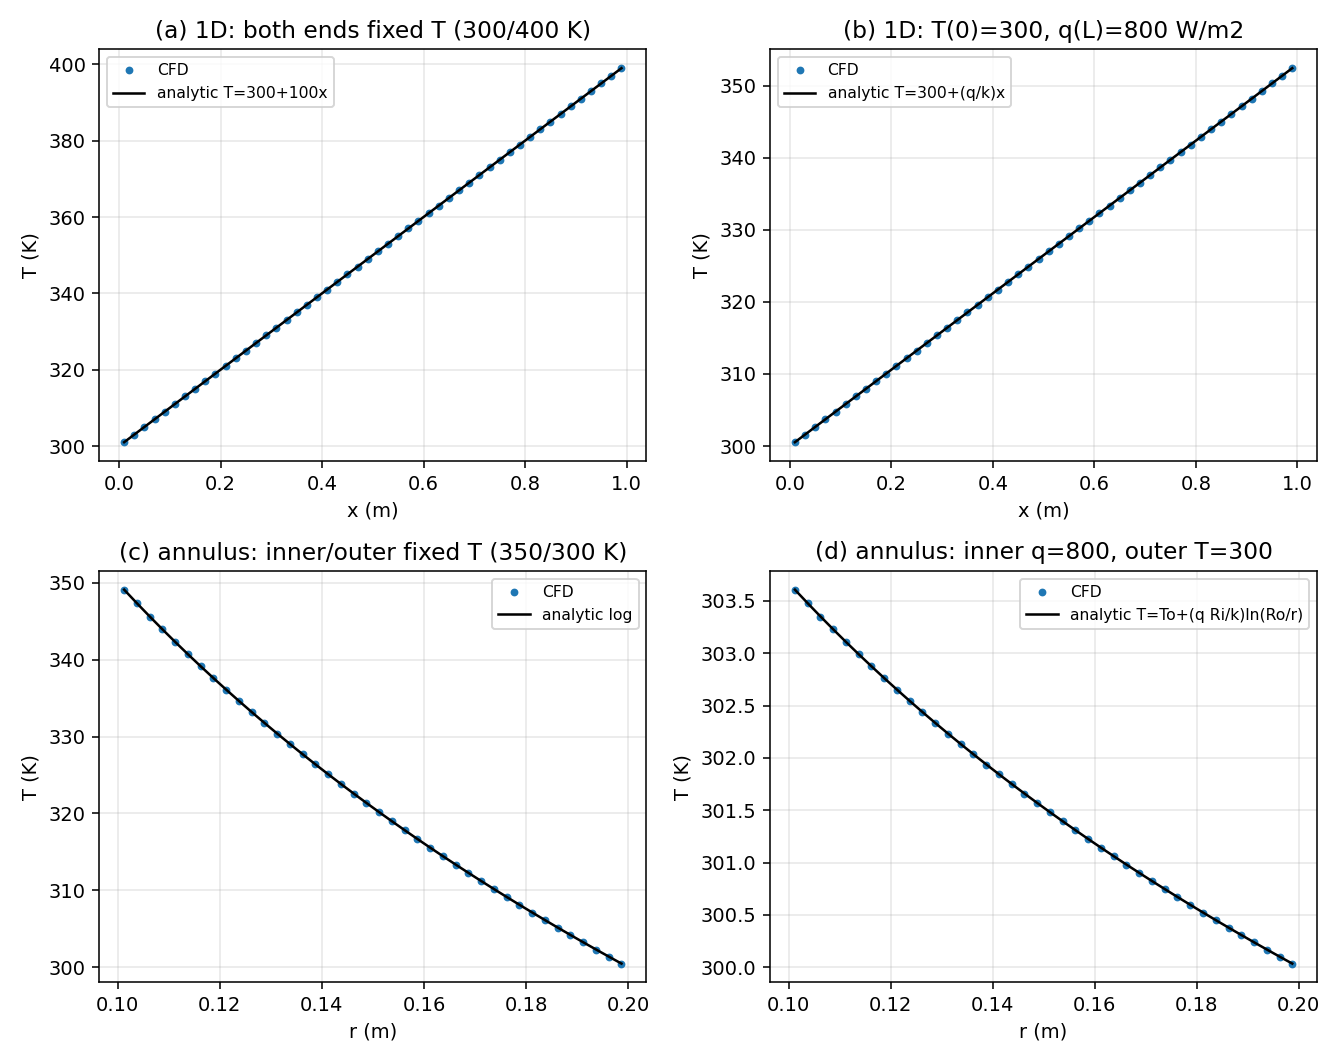
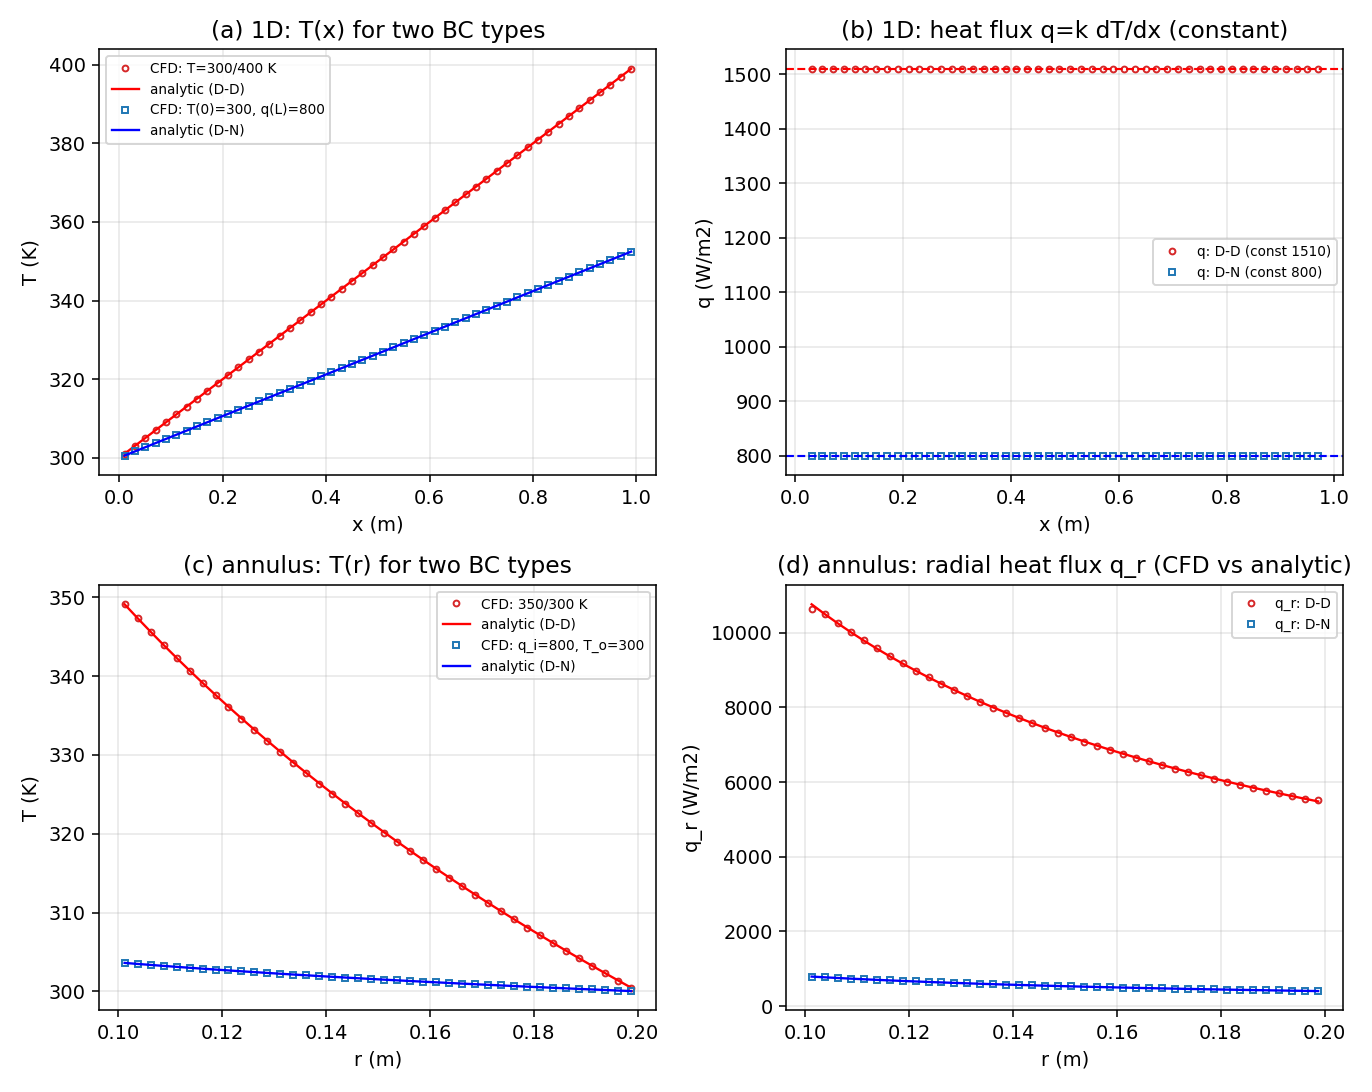
docs(summary): consolidate conduction figure (both BC types, T and q); drop duplicate 1D/annulus figures

diff --git a/docs/summary/make_cond_fig.py b/docs/summary/make_cond_fig.py
@@ -1,37 +1,53 @@
 #!/usr/bin/env python3
-import numpy as np, os
+import numpy as np
 import matplotlib; matplotlib.use('Agg')
 import matplotlib.pyplot as plt
 R='/home/sundong/Fortran_Project/OpenCFD-EC-1.16a'; F=R+'/docs/summary/figures'
-def T1d(path):
-    d=np.loadtxt(path,skiprows=3); x,T=d[:,0],d[:,3]
+def T1d(p):
+    d=np.loadtxt(p,skiprows=3); x,T=d[:,0],d[:,3]
     xu,inv=np.unique(np.round(x,10),return_inverse=True); Tx=np.array([T[inv==k].mean() for k in range(xu.size)])
     return xu,Tx
-def ann(path):
-    d=np.loadtxt(path,skiprows=3); r=np.hypot(d[:,0],d[:,1]); T=d[:,3]
+def ann(p):
+    d=np.loadtxt(p,skiprows=3); r=np.hypot(d[:,0],d[:,1]); T=d[:,3]
     ii=np.arange(d.shape[0])%40; ri=np.array([r[ii==k].mean() for k in range(40)]); Ti=np.array([T[ii==k].mean() for k in range(40)])
     return ri,Ti
-fig,ax=plt.subplots(2,2,figsize=(9.6,7.6))
-# (a) 1D Dirichlet-Dirichlet
-x,T=T1d('/home/sundong/Fortran_Project/OpenCFD-EC-1.16a/cases/solid_1d_2temp/Ts_block_1.dat')
-Tref='/home/sundong/Fortran_Project/OpenCFD-EC-1.16a/cases/solid_1d'
-x2,T2=T1d('/tmp/run_solid_1d/Ts_block_1.dat')
-ax[0,0].plot(x,T,'o',ms=3,label='CFD'); ax[0,0].plot(x,300+100*x,'k-',lw=1.3,label='analytic T=300+100x'); ax[0,0].set_title('(a) 1D: both ends fixed T (300/400 K)'); ax[0,0].set_xlabel('x (m)'); ax[0,0].set_ylabel('T (K)')
-ax[0,0].legend(fontsize=8); ax[0,0].grid(alpha=.3)
-print('1D Dirichlet: max err = %.3e K'%np.max(np.abs(T-(300+100*x))))
-# (b) 1D Dirichlet-Neumann (flux)
-ax[0,1].plot(x2,T2,'o',ms=3,label='CFD'); ax[0,1].plot(x2,300+(800/15.1)*x2,'k-',lw=1.3,label='analytic T=300+(q/k)x'); ax[0,1].set_title('(b) 1D: T(0)=300, q(L)=800 W/m2'); ax[0,1].set_xlabel('x (m)'); ax[0,1].set_ylabel('T (K)')
-ax[0,1].legend(fontsize=8); ax[0,1].grid(alpha=.3)
-print('1D Neumann: max err = %.3e K'%np.max(np.abs(T2-(300+(800/15.1)*x2))))
-# (c) annulus Dirichlet-Dirichlet
-r,Ta=ann('/home/sundong/Fortran_Project/OpenCFD-EC-1.16a/cases/solid_annulus_2temp/Ts_block_1.dat')
-r2,Ta2=ann('/tmp/run_solid_annulus/Ts_block_1.dat')
-an_=350-50*np.log(r/0.1)/np.log(2.0)
-ax[1,0].plot(r,Ta,'o',ms=3,label='CFD'); ax[1,0].plot(r,an_,'k-',lw=1.3,label='analytic log'); ax[1,0].set_title('(c) annulus: inner/outer fixed T (350/300 K)'); ax[1,0].set_xlabel('r (m)'); ax[1,0].set_ylabel('T (K)')
-ax[1,0].legend(fontsize=8); ax[1,0].grid(alpha=.3)
-print('annulus Dirichlet: max err = %.3e K'%np.max(np.abs(Ta-an_)))
-an2=300+(800*0.1/15.1)*np.log(0.2/r2)
-ax[1,1].plot(r2,Ta2,'o',ms=3,label='CFD'); ax[1,1].plot(r2,an2,'k-',lw=1.3,label='analytic T=To+(q Ri/k)ln(Ro/r)'); ax[1,1].set_title('(d) annulus: inner q=800, outer T=300'); ax[1,1].set_xlabel('r (m)'); ax[1,1].set_ylabel('T (K)')
-ax[1,1].legend(fontsize=8); ax[1,1].grid(alpha=.3)
-print('annulus Neumann: max err = %.3e K'%np.max(np.abs(Ta2-an2)))
-plt.tight_layout(); plt.savefig(F+'/conduction_bc.png',dpi=140); print('conduction_bc.png saved')
+xDD,TDD=T1d(R+'/cases/solid_1d_2temp/Ts_block_1.dat')
+xDN,TDN=T1d('/tmp/run_solid_1d/Ts_block_1.dat')
+rDD,TaDD=ann(R+'/cases/solid_annulus_2temp/Ts_block_1.dat')
+rDN,TaDN=ann('/tmp/run_solid_annulus/Ts_block_1.dat')
+fig,ax=plt.subplots(2,2,figsize=(9.8,7.8))
+k=15.1
+# (a) 1D T(x)
+ax[0,0].plot(xDD,TDD,'o',ms=3,mfc='none',color='tab:red',label='CFD: T=300/400 K')
+ax[0,0].plot(xDD,300+100*xDD,'r-',lw=1.2,label='analytic (D-D)')
+ax[0,0].plot(xDN,TDN,'s',ms=3,mfc='none',color='tab:blue',label='CFD: T(0)=300, q(L)=800')
+ax[0,0].plot(xDN,300+(800/k)*xDN,'b-',lw=1.2,label='analytic (D-N)')
+ax[0,0].set_title('(a) 1D: T(x) for two BC types'); ax[0,0].set_xlabel('x (m)'); ax[0,0].set_ylabel('T (K)')
+ax[0,0].legend(fontsize=7); ax[0,0].grid(alpha=.3)
+# (b) 1D q(x)
+ax[0,1].plot(xDD[1:-1],k*np.gradient(TDD,xDD)[1:-1],'o',ms=3,mfc='none',color='tab:red',label='q: D-D (const 1510)')
+ax[0,1].axhline(k*100,color='r',ls='--',lw=1.1)
+ax[0,1].plot(xDN[1:-1],k*np.gradient(TDN,xDN)[1:-1],'s',ms=3,mfc='none',color='tab:blue',label='q: D-N (const 800)')
+ax[0,1].axhline(800,color='b',ls='--',lw=1.1)
+ax[0,1].set_title('(b) 1D: heat flux q=k dT/dx (constant)'); ax[0,1].set_xlabel('x (m)'); ax[0,1].set_ylabel('q (W/m2)')
+ax[0,1].legend(fontsize=7); ax[0,1].grid(alpha=.3)
+# (c) annulus T(r)
+ax[1,0].plot(rDD,TaDD,'o',ms=3,mfc='none',color='tab:red',label='CFD: 350/300 K')
+ax[1,0].plot(rDD,350-50*np.log(rDD/0.1)/np.log(2.0),'r-',lw=1.2,label='analytic (D-D)')
+ax[1,0].plot(rDN,TaDN,'s',ms=3,mfc='none',color='tab:blue',label='CFD: q_i=800, T_o=300')
+ax[1,0].plot(rDN,300+(800*0.1/k)*np.log(0.2/rDN),'b-',lw=1.2,label='analytic (D-N)')
+ax[1,0].set_title('(c) annulus: T(r) for two BC types'); ax[1,0].set_xlabel('r (m)'); ax[1,0].set_ylabel('T (K)')
+ax[1,0].legend(fontsize=7); ax[1,0].grid(alpha=.3)
+# (d) annulus q_r(r)
+ax[1,1].plot(rDD,-k*np.gradient(TaDD,rDD),'o',ms=3,mfc='none',color='tab:red',label='q_r: D-D')
+ax[1,1].plot(rDD,50*k/np.log(2.0)/rDD,'r-',lw=1.2)
+ax[1,1].plot(rDN,-k*np.gradient(TaDN,rDN),'s',ms=3,mfc='none',color='tab:blue',label='q_r: D-N')
+ax[1,1].plot(rDN,800*0.1/rDN,'b-',lw=1.2)
+ax[1,1].set_title('(d) annulus: radial heat flux q_r (CFD vs analytic)'); ax[1,1].set_xlabel('r (m)'); ax[1,1].set_ylabel('q_r (W/m2)')
+ax[1,1].legend(fontsize=7); ax[1,1].grid(alpha=.3)
+plt.tight_layout(); plt.savefig(F+'/conduction_bc.png',dpi=140)
+print('1D D-D err %.2e'%np.max(np.abs(TDD-(300+100*xDD))))
+print('1D D-N err %.2e'%np.max(np.abs(TDN-(300+(800/k)*xDN))))
+print('ann D-D err %.2e'%np.max(np.abs(TaDD-(350-50*np.log(rDD/0.1)/np.log(2)))))
+print('ann D-N err %.2e'%np.max(np.abs(TaDN-(300+(800*0.1/k)*np.log(0.2/rDN)))))
+print('saved conduction_bc.png')

diff --git a/docs/summary/main.tex b/docs/summary/main.tex
@@ -127,23 +127,19 @@ $h_v$ 按 Wakao--Kaguei 关联（随 $\varepsilon,G$）标定；AC。$G\in\{1,2,
 \begin{figure}[htbp]\centering
 \includegraphics[width=0.46\textwidth]{figures/cavity.png}
 \includegraphics[width=0.30\textwidth]{figures/channel.png}\\
-\includegraphics[width=0.30\textwidth]{figures/solid1d.png}
-\includegraphics[width=0.30\textwidth]{figures/annulus.png}\\
 \includegraphics[width=0.30\textwidth]{figures/plug.png}
 \includegraphics[width=0.30\textwidth]{figures/ltne.png}
 \end{figure}
 
 \begin{figure}[htbp]\centering
 \includegraphics[width=0.92\textwidth]{figures/conduction_bc.png}\\
-\includegraphics[width=0.46\textwidth]{figures/solid1d_flux.png}
-\includegraphics[width=0.46\textwidth]{figures/annulus_flux.png}\\
 \includegraphics[width=0.32\textwidth]{figures/ltne_eps.png}
 \includegraphics[width=0.32\textwidth]{figures/ltne_G.png}
 \includegraphics[width=0.32\textwidth]{figures/ltne_q.png}\\
 \includegraphics[width=0.32\textwidth]{figures/plug_eps.png}
 \caption{导热（含热流对比）；LTNE 多孔隙率/多流量/多热流（空心=CFD，实线=解析）；Plug 三孔隙率 $u(y)$ vs Brinkman。}
 \end{figure}
-\caption{左：方腔 $u(x=0.5)$ 与槽道剖面；右：一维与圆环导热剖面（点：CFD；线：解析/基准）。}
+\caption{方腔 $u(x=0.5)$（vs Ghia）、槽道剖面（vs Poiseuille）、Porous Plug 三孔隙率、LTNE 单例（点：CFD；线：解析/基准）。}
 \end{figure}
 
 \section{结果汇总与对比}
